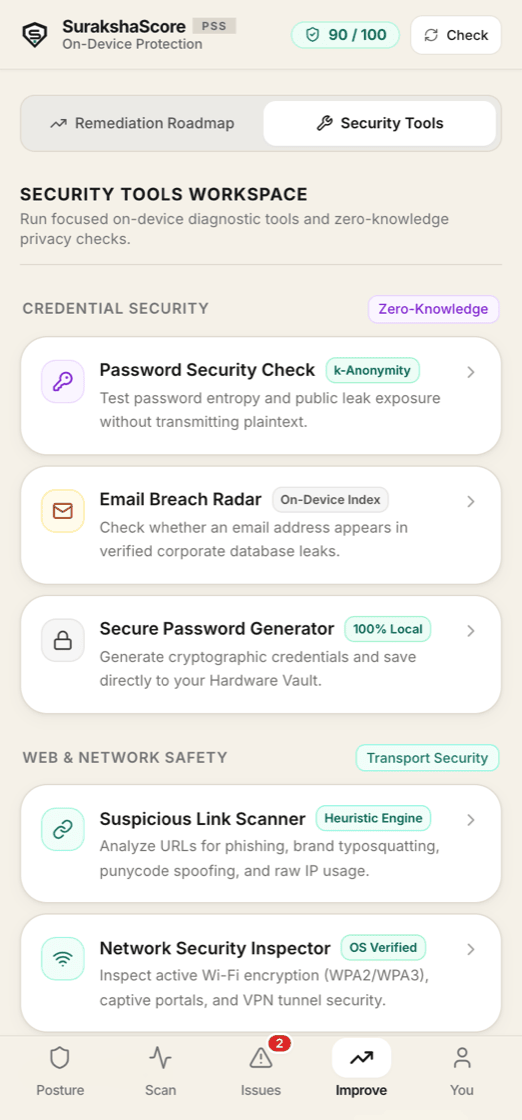
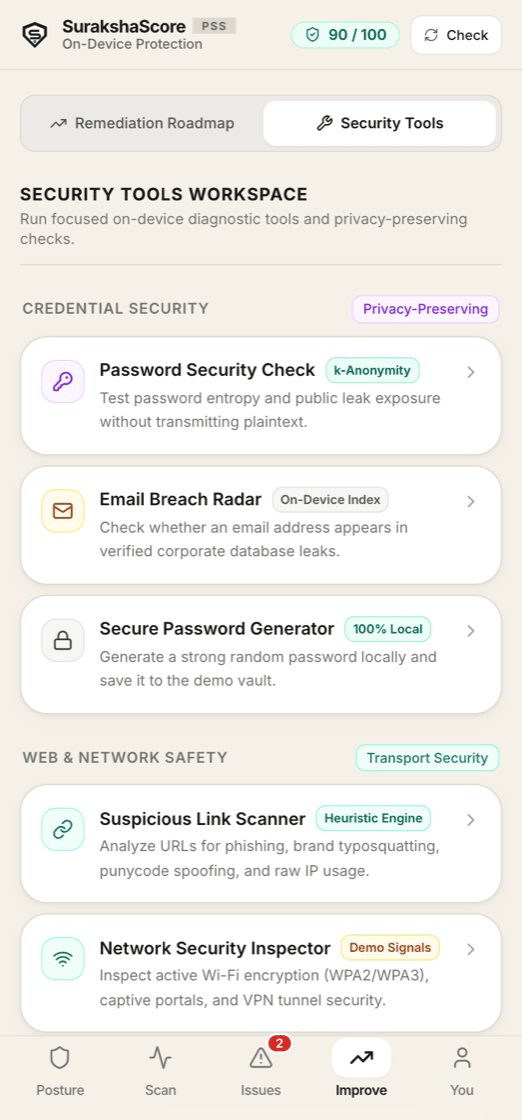
Remove security claims the app does not implement
The UI asserted a hardware-backed encrypted vault and OS-verified
signals. Neither exists: credentials are held in React state in plain
text, and the web build reads from the mock signal provider. In a
project whose whole argument is that every value should carry its
provenance, these were the most damaging strings in the codebase.

Vault screen:
  "Offline Credential Vault / Hardware keystore enclave"
    -> "Demo Credential Vault / In-memory demonstration, not encrypted,
        cleared on reload"
  "Hardware-Backed Cryptographic Isolation" + "ENCLAVE ISOLATED"
    -> "Demonstration Only - Not A Password Manager" + "NOT ENCRYPTED"
  "All stored credentials ... reside strictly in your device's
   hardware-backed local keystore"
    -> states entries are unencrypted, in memory, lost on reload, and
       that no real password should be stored
  "Stored Enclave Credentials" -> "Demo Credentials"
  "Encrypted at rest" -> "In memory only"
  2FA row subtitle "TOTP Authenticator & Hardware Token"
    -> "Self-reported per demo entry"

Data & Privacy screen:
  storage column 'Local Hardware Enclave' | 'Local Device Storage' |
  'Local Cache Only' -> 'In Memory' | 'localStorage', matching what the
  code actually does (only demo history is persisted, under the
  pss_demo_history key)
  vault row "Encrypted credentials, master keys, OTP tokens"
    -> plain-text demo entries, not encrypted
  "Zero-Knowledge Privacy Architecture"
[…]

diff --git a/src/screens/ToolsScreen.tsx b/src/screens/ToolsScreen.tsx
@@ -145,7 +145,7 @@ export const ToolsScreen: React.FC = () => {
           Security Tools Workspace
         </h2>
         <p className="text-xs text-neutral-500 mt-0.5">
-          Run focused on-device diagnostic tools and zero-knowledge privacy checks.
+          Run focused on-device diagnostic tools and privacy-preserving checks.
         </p>
       </div>
 
@@ -159,7 +159,7 @@ export const ToolsScreen: React.FC = () => {
                 Credential Security
               </h3>
               <span className="text-[11px] font-medium text-purple-700 bg-purple-50 px-2 py-0.5 rounded-md border border-purple-200">
-                Zero-Knowledge
+                Privacy-Preserving
               </span>
             </div>
 
@@ -228,7 +228,7 @@ export const ToolsScreen: React.FC = () => {
                         <span className="text-[10px] font-semibold text-emerald-800 bg-emerald-50 px-1.5 py-0.5 rounded border border-emerald-200">100% Local</span>
                       </div>
                       <p className="text-xs text-neutral-500 mt-0.5 leading-relaxed">
-                        Generate cryptographic credentials and save directly to your Hardware Vault.
+                        Generate a strong random password locally and save it to the demo vault.
                       </p>
                     </div>
                   </div>
@@ -287,7 +287,7 @@ export const ToolsScreen: React.FC = () => {
                     <div>
                       <div className="flex items-center gap-2">
                         <h4 className="text-sm font-semibold text-neutral-900">Network Security Inspector</h4>
-                        <span className="text-[10px] font-semibold text-emerald-800 bg-emerald-50 px-1.5 py-0.5 rounded border border-emerald-200">OS Verified</span>
+                        <span className="text-[10px] font-semibold text-amber-800 bg-amber-50 px-1.5 py-0.5 rounded border border-amber-200">Demo Signals</span>
                       </div>
                       <p className="text-xs text-neutral-500 mt-0.5 leading-relaxed">
                         Inspect active Wi-Fi encryption (WPA2/WPA3), captive portals, and VPN tunnel security.
@@ -307,7 +307,7 @@ export const ToolsScreen: React.FC = () => {
                 Device & System
               </h3>
               <span className="text-[11px] font-medium text-blue-700 bg-blue-50 px-2 py-0.5 rounded-md border border-blue-200">
-                Hardware Enclave
+                On-Device
               </span>
             </div>
 
@@ -324,7 +324,7 @@ export const ToolsScreen: React.FC = () => {
                     <div>
                       <div className="flex items-center gap-2">
                         <h4 className="text-sm font-semibold text-neutral-900">Permission Inspector</h4>
-                        <span className="text-[10px] font-semibold text-purple-800 bg-purple-50 px-1.5 py-0.5 rounded border border-purple-200">OS Verified</span>
+                        <span className="text-[10px] font-semibold text-amber-800 bg-amber-50 px-1.5 py-0.5 rounded border border-amber-200">Demo Signals</span>
                       </div>
                       <p className="text-xs text-neutral-500 mt-0.5 leading-relaxed">
                         Review high-risk declared capabilities (SMS, Camera, Location, Contacts) across installed apps.
@@ -394,7 +394,7 @@ export const ToolsScreen: React.FC = () => {
                     Password Security Check
                   </h3>
                   <span className="text-[10px] font-bold px-2 py-0.5 bg-emerald-50 text-emerald-800 border border-emerald-200 rounded-md">
-                    ZERO-KNOWLEDGE
+                    K-ANONYMITY
                   </span>
                 </div>
                 <p className="text-xs text-neutral-500 mt-1 leading-relaxed">
@@ -1110,12 +1110,12 @@ export const ToolsScreen: React.FC = () => {
                   <h3 className="text-sm font-semibold text-neutral-900">
                     Network Security Inspector
                   </h3>
-                  <span className="text-[10px] font-bold px-2 py-0.5 bg-emerald-50 text-emerald-800 border border-emerald-200 rounded-md">
-                    OS VERIFIED
+                  <span className="text-[10px] font-bold px-2 py-0.5 bg-amber-50 text-amber-800 border border-amber-200 rounded-md">
+                    DEMO SIGNALS
                   </span>
                 </div>
                 <p className="text-xs text-neutral-500 mt-1 leading-relaxed">
-                  Live evaluation of network transport encryption standards, active VPN routing, and captive hotspot exposure.
+                  Evaluates network transport encryption, active VPN routing and captive hotspot exposure. Values shown come from the demo signal provider, not from your network.
                 </p>
               </div>
             </div>
@@ -1176,12 +1176,12 @@ export const ToolsScreen: React.FC = () => {
                   <h3 className="text-sm font-semibold text-neutral-900">
                     Application Permission Inspector
                   </h3>
-                  <span className="text-[10px] font-bold px-2 py-0.5 bg-purple-50 text-purple-800 border border-purple-200 rounded-md">
-                    OS VERIFIED
+                  <span className="text-[10px] font-bold px-2 py-0.5 bg-amber-50 text-amber-800 border border-amber-200 rounded-md">
+                    DEMO SIGNALS
                   </span>
                 </div>
                 <p className="text-xs text-neutral-500 mt-1 leading-relaxed">
-                  Detailed inspection of high-risk permissions requested by background installed applications.
+                  Inspects high-risk permissions declared by installed applications. Values shown come from the demo signal provider, not from your device.
                 </p>
               </div>
             </div>

diff --git a/src/screens/DataPrivacyScreen.tsx b/src/screens/DataPrivacyScreen.tsx
@@ -6,7 +6,7 @@ interface DataCollectionItem {
   category: string;
   item: string;
   purpose: string;
-  storageLocation: 'Local Hardware Enclave' | 'Local Device Storage' | 'Local Cache Only';
+  storageLocation: 'In Memory' | 'localStorage';
   isTransmittedToCloud: boolean;
 }
 
@@ -15,42 +15,42 @@ const DATA_COLLECTION_TABLE: DataCollectionItem[] = [
     category: 'Device Integrity',
     item: 'OS version, security update recency, screen lock type, developer mode state',
     purpose: 'Device integrity scoring and vulnerability detection',
-    storageLocation: 'Local Device Storage',
+    storageLocation: 'In Memory',
     isTransmittedToCloud: false,
   },
   {
     category: 'Installed Apps',
     item: 'Package names, declared permission combinations, last opened timestamp',
     purpose: 'Permission risk analysis and high-risk capability detection',
-    storageLocation: 'Local Device Storage',
+    storageLocation: 'In Memory',
     isTransmittedToCloud: false,
   },
   {
     category: 'Network State',
     item: 'Wi-Fi encryption type (WPA2/WPA3), captive portal flag, active VPN status',
     purpose: 'Network security evaluation and hotspot warnings',
-    storageLocation: 'Local Device Storage',
+    storageLocation: 'In Memory',
     isTransmittedToCloud: false,
   },
   {
     category: 'Habits Responses',
     item: 'Self-reported answers to 5 security habit questions',
     purpose: 'Behavioral hygiene profile scoring',
-    storageLocation: 'Local Device Storage',
+    storageLocation: 'In Memory',
     isTransmittedToCloud: false,
   },
   {
     category: 'Vault & Passwords',
-    item: 'Encrypted credentials, master keys, OTP tokens',
-    purpose: 'Offline password storage and credential hygiene evaluation',
-    storageLocation: 'Local Hardware Enclave',
+    item: 'Demo credential entries (service, username, password) — stored in plain text, not encrypted',
+    purpose: 'Vault interface demonstration and credential hygiene evaluation',
+    storageLocation: 'In Memory',
     isTransmittedToCloud: false,
   },
   {
     category: 'Audit History',
     item: 'Timestamped scores, active finding counts, category point breakdown',
     purpose: 'Historical progress tracking and remediation roadmap',
-    storageLocation: 'Local Cache Only',
+    storageLocation: 'localStorage',
     isTransmittedToCloud: false,
   },
 ];
@@ -94,11 +94,11 @@ export const DataPrivacyScreen: React.FC = () => {
             Data & Privacy
           </h2>
           <p className="text-xs text-neutral-500 mt-0.5">
-            Transparent data inventory and zero-knowledge privacy controls
+            Transparent data inventory and on-device privacy controls
           </p>
         </div>
         <span className="text-xs font-semibold px-2.5 py-0.5 bg-emerald-50 text-emerald-800 border border-emerald-200 rounded-full">
-          100% On-Device
+          No Backend
         </span>
       </div>
 
@@ -110,10 +110,10 @@ export const DataPrivacyScreen: React.FC = () => {
           </div>
           <div>
             <h3 className="text-sm font-semibold text-neutral-900">
-              Zero-Knowledge Privacy Architecture
+              No Backend, No Accounts, No Telemetry
             </h3>
             <p className="text-xs text-neutral-500 mt-1 leading-relaxed">
-              SurakshaScore runs directly on your device. We do not collect passwords, OTPs, PINs, bank details, contacts, browsing history, or message content. No personal telemetry is ever stored or shared.
+              SurakshaScore runs entirely in this app. There is no server, no account and no analytics. It does not collect passwords, OTPs, PINs, bank details, contacts, browsing history or message content. The one outbound request is the password leak check, which sends only the first five characters of a SHA-1 hash (k-anonymity) and never the password itself.
             </p>
           </div>
         </div>
@@ -125,11 +125,11 @@ export const DataPrivacyScreen: React.FC = () => {
           </div>
           <div className="p-2.5 border border-neutral-200/70 bg-neutral-50 rounded-xl">
             <Lock size={15} className="mx-auto mb-1 text-neutral-700" />
-            <span className="font-semibold text-neutral-800 block text-[11px]">Offline Vault</span>
+            <span className="font-semibold text-neutral-800 block text-[11px]">No Accounts</span>
           </div>
           <div className="p-2.5 border border-neutral-200/70 bg-neutral-50 rounded-xl">
             <HardDrive size={15} className="mx-auto mb-1 text-neutral-700" />
-            <span className="font-semibold text-neutral-800 block text-[11px]">Local Storage</span>
+            <span className="font-semibold text-neutral-800 block text-[11px]">Stays On Device</span>
           </div>
         </div>
       </div>
@@ -181,7 +181,7 @@ export const DataPrivacyScreen: React.FC = () => {
               Purge All Local Data & Scan History
             </h4>
             <p className="text-xs text-neutral-500 mt-1 leading-relaxed">
-              Permanently deletes all saved audit snapshots, habit responses, cached finding states, and offline vault tokens from this device.
+              Clears saved audit history from browser storage and resets habit responses, finding states and the demo vault for this session.
             </p>
           </div>
 

diff --git a/src/screens/VaultScreen.tsx b/src/screens/VaultScreen.tsx
@@ -60,10 +60,10 @@ export const VaultScreen: React.FC = () => {
       <div className="border-b border-[#E0DAD0] pb-3 flex items-center justify-between">
         <div>
           <h2 className="text-sm font-bold text-neutral-900 uppercase tracking-wider">
-            Offline Credential Vault
+            Demo Credential Vault
           </h2>
           <p className="text-xs text-neutral-500 mt-0.5">
-            Hardware keystore enclave • 100% on-device local storage
+            In-memory demonstration • not encrypted • cleared on reload
           </p>
         </div>
         <button
@@ -76,7 +76,9 @@ export const VaultScreen: React.FC = () => {
         </button>
       </div>
 
-      {/* Hardware Enclave Guarantee Plate */}
+      {/* Scope notice. This vault is a UI demonstration: entries live in React
+          state, are not encrypted and are not persisted. The copy below must
+          keep saying exactly that until real storage is implemented. */}
       <div className="bg-white p-5 border border-[#E0DAD0] rounded-[22px] flex items-start gap-3.5 shadow-card">
         <div className="p-2.5 rounded-xl bg-neutral-100 text-neutral-800 shrink-0 mt-0.5">
           <Lock size={20} />
@@ -84,14 +86,14 @@ export const VaultScreen: React.FC = () => {
         <div>
           <div className="flex items-center gap-2">
             <h4 className="text-sm font-semibold text-neutral-900">
-              Hardware-Backed Cryptographic Isolation
+              Demonstration Only — Not A Password Manager
             </h4>
-            <span className="text-[10px] font-bold px-2 py-0.5 bg-emerald-50 text-emerald-800 border border-emerald-200 rounded-md">
-              ENCLAVE ISOLATED
+            <span className="text-[10px] font-bold px-2 py-0.5 bg-amber-50 text-amber-800 border border-amber-200 rounded-md">
+              NOT ENCRYPTED
             </span>
           </div>
           <p className="text-xs text-neutral-500 mt-1 leading-relaxed">
-            All stored credentials, passwords, and 2FA recovery seeds reside strictly in your device's hardware-backed local keystore. No credentials ever sync to cloud servers.
+            This screen demonstrates the vault interface only. Entries are held in memory in this tab, are <strong>not encrypted</strong> and are <strong>lost when you reload</strong>. Nothing is sent anywhere — this build has no backend — but do not store a real password here.
           </p>
         </div>
       </div>
@@ -115,7 +117,7 @@ export const VaultScreen: React.FC = () => {
           <div className="p-4 flex items-center justify-between">
             <div>
               <span className="font-semibold text-neutral-900 block">Two-Factor Authentication (2FA)</span>
-              <span className="text-[11px] text-neutral-500">TOTP Authenticator & Hardware Token</span>
+              <span className="text-[11px] text-neutral-500">Self-reported per demo entry</span>
             </div>
             <span className="font-semibold text-emerald-800 bg-emerald-50 border border-emerald-200/80 px-2.5 py-1 rounded-lg">
               Enabled (TOTP)
@@ -138,11 +140,11 @@ export const VaultScreen: React.FC = () => {
       <article className="space-y-2.5">
         <div className="flex items-center justify-between px-0.5">
           <h3 className="text-xs font-semibold text-neutral-500 uppercase tracking-wider">
-            Stored Enclave Credentials ({vaultCredentials.length})
+            Demo Credentials ({vaultCredentials.length})
           </h3>
-          <span className="text-[11px] text-emerald-800 font-medium flex items-center gap-1">
+          <span className="text-[11px] text-amber-800 font-medium flex items-center gap-1">
             <ShieldCheck size={13} />
-            <span>Encrypted at rest</span>
+            <span>In memory only</span>
           </span>
         </div>
 

diff --git a/src/screens/ScanScreen.tsx b/src/screens/ScanScreen.tsx
@@ -57,7 +57,7 @@ export const ScanScreen: React.FC<ScanScreenProps> = ({
   const categoryConfig: Record<ScanStage, { name: string; desc: string; icon: React.ReactNode; color: string; badgeBg: string }> = {
     device: {
       name: 'Device Security',
-      desc: 'Screen lock, hardware keystore, and OS patch recency',
+      desc: 'Screen lock, disk encryption state, and OS patch recency',
       icon: <Smartphone size={16} />,
       color: '#2563eb', // Blue
       badgeBg: 'bg-blue-50 text-blue-700 border-blue-200/80',
@@ -78,7 +78,7 @@ export const ScanScreen: React.FC<ScanScreenProps> = ({
     },
     account: {
       name: 'Account Security',
-      desc: 'Credential hygiene baseline and zero-knowledge breach inquiries',
+      desc: 'Credential hygiene baseline and k-anonymity breach inquiries',
       icon: <Mail size={16} />,
       color: '#d97706', // Amber
       badgeBg: 'bg-amber-50 text-amber-800 border-amber-200/80',
@@ -524,8 +524,8 @@ export const ScanScreen: React.FC<ScanScreenProps> = ({
                 <h2 className="text-sm font-bold text-neutral-900 uppercase tracking-wider">
                   App & Permission Risk Scanner
                 </h2>
-                <span className="text-[10px] font-bold px-2 py-0.5 bg-purple-50 text-purple-800 border border-purple-200 rounded-md">
-                  OS VERIFIED
+                <span className="text-[10px] font-bold px-2 py-0.5 bg-amber-50 text-amber-800 border border-amber-200 rounded-md">
+                  DEMO SIGNALS
                 </span>
               </div>
               <p className="text-xs text-neutral-500 mt-0.5">

diff --git a/src/screens/HomeScreen.tsx b/src/screens/HomeScreen.tsx
@@ -436,7 +436,7 @@ export const HomeScreen: React.FC<HomeScreenProps> = ({
         </div>
         <div className="flex items-center gap-1 text-emerald-800 font-medium text-[11px] bg-emerald-50 border border-emerald-200/70 px-2 py-0.5 rounded-full">
           <ShieldCheck size={12} />
-          <span>100% Local Enclave</span>
+          <span>Runs On Device</span>
         </div>
       </div>
     </div>

diff --git a/README.md b/README.md
@@ -152,7 +152,8 @@ dishonesty this project exists to avoid.
   unavailable.
 - **Link scanner** — heuristic detection of phishing indicators: brand
   typosquatting, punycode spoofing and raw-IP URLs.
-- **Local credential vault** and breach monitor.
+- **Demo credential vault** (in-memory, unencrypted, clearly labelled as such)
+  and breach monitor.
 - **Android build** via Capacitor.
 
 <details>
@@ -289,15 +290,20 @@ than one that verifies nothing.
   verified device data. Until then Android reports them as unavailable rather
   than guessing — which is correct, but means the Tier 1 and Tier 2 paths are
   currently exercised only by tests.
-- **The local vault is a UI demonstration, and its own label overstates it.**
-  It is seeded with clearly-labelled fictional entries and held in React state,
-  so nothing survives a reload. The screen displays the badge "Encrypted at
-  rest", and **that is not implemented** — the only `crypto.subtle` call in the
-  codebase is the SHA-1 digest used for the k-anonymity leak check. The badge
-  is a leftover from the visual design and should be removed or made true
-  before the vault is presented as a feature. (Real client-side encryption,
-  PBKDF2-SHA256 with AES-GCM, exists in the
+- **The vault is a UI demonstration and now says so.** Entries are seeded
+  fictional credentials held in React state: **not encrypted, not persisted,
+  cleared on reload.** The screen previously displayed "Encrypted at rest",
+  "Hardware-Backed Cryptographic Isolation" and an "ENCLAVE ISOLATED" badge —
+  none of which was implemented — and those have been replaced with an explicit
+  "NOT ENCRYPTED" notice. The only `crypto.subtle` call in the codebase remains
+  the SHA-1 digest used for the k-anonymity leak check. (Real client-side
+  encryption, PBKDF2-SHA256 with AES-GCM, exists in the
   [predecessor repository](https://github.com/sgtsujith141-wq/surakshascore-mvp).)
+- **Badges reflect provenance, not aspiration.** The network and permission
+  inspectors read from the mock signal provider in the web build, so they are
+  labelled **"Demo Signals"** rather than "OS Verified". "k-Anonymity",
+  "Heuristic Engine", "On-Device Index" and "100% Local" are accurate
+  descriptions of what those tools actually do.
 - **The link scanner is heuristic.** It detects typosquatting, punycode and raw
   IPs; it does not consult any reputation feed and will miss novel phishing.
 - **No persistence.** No backend, no accounts, no sync. State is in-memory and
@@ -312,8 +318,9 @@ than one that verifies nothing.
   device — the single change that would most increase the score's meaning.
 - Persist scan history locally so the Timeline screen shows genuine trend data.
 - Move the link scanner from pure heuristics to an on-device blocklist.
-- Harden the vault (or remove it) — a demonstration vault in a security app is a
-  liability if a user mistakes it for a real one.
+- Harden the vault or remove it. It is now unambiguously labelled as a
+  demonstration, but a real security app should either encrypt and persist
+  credentials properly or not offer the screen at all.
 - iOS target via Capacitor, with the same unavailable-not-guessed discipline.
 
 ## Repository layout
